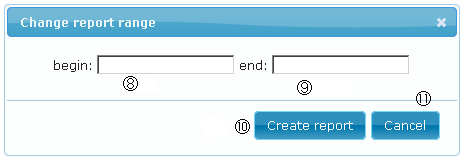
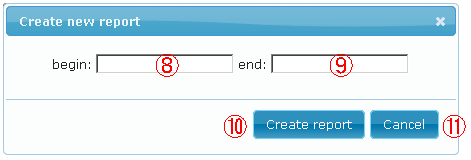
マニュアルコメント3件対応

diff --git a/html/pg_stats_reporter/doc/pg_stats_reporter-ja.html b/html/pg_stats_reporter/doc/pg_stats_reporter-ja.html
@@ -70,6 +70,8 @@
     <li>Superfish : 1.4.8</li>
     <li>Smarty : 3.1.12</li>
   </ul></dd>
+  <dt>解像度</dt>
+  <dd>1024x786(SXGA)以上推奨</dd>
 </dl>
 
 <h3 id="pg_stats_reporter_install">pg_stats_reporterのインストール</h3>
@@ -138,8 +140,8 @@ http://localhost/pg_stats_reporter/pg_stats_reporter.php
 
 <h3>操作方法詳細</h3>
 <p>画面の操作方法を以下に示します。</p>
-<h4>レポート画面 <font color="red">調整が面倒だったので、画面はwidth=&quot;100%&quot;になっています</font></h4>
-<img src="pg_stats_reporter.png" width="100%"/>
+<h4>レポート画面</h4>
+<img src="pg_stats_reporter.png" width="800px;"/>
 <br/>
 <dl>
 <dt>① : Create report range ボタン</dt>
@@ -287,11 +289,14 @@ $ su
 <li>接続先の PostgreSQL の設定 (postgresql.conf, pg_hba.conf)</li>
 </ul></dl>
 
-<h4>Q3. ブラウザに Internet Explorer を使用してレポートを表示したところ、正しく表示されません。</h4>
-<dl>A3. ブラウザに Internet Explorer を使用してレポートを作成した場合、Internet Explorer のバージョンによって正しく表示されない場合があります。ブラウザは Firefox を使用することを推奨します。</dl>
+<h4>Q3. メニュー画面が画面からはみ出て選択できない。</h4>
+<dl>A3. 画面の解像度を現在の設定以上に設定してください。右側のリポジトリ選択メニューが選択できない場合は、別のWebディレクトリにpg_stats_reporterをインストールして、レポジトリDB設定を分散させるなどして対応してください。</dl>
 
-<h4>Q4. 日時を指定してレポートを作成したところ、空のレポートが表示されました。</h4>
-<dl>A4. 指定した条件に該当するスナップショット件数が2件未満の可能性があります。スナップショット件数が2件以上該当するように条件を変更してください。</dl>
+<h4>Q4. ブラウザに Internet Explorer を使用してレポートを表示したところ、正しく表示されません。</h4>
+<dl>A4. ブラウザに Internet Explorer を使用してレポートを作成した場合、Internet Explorer のバージョンによって正しく表示されない場合があります。ブラウザは Firefox を使用することを推奨します。</dl>
+
+<h4>Q5. 日時を指定してレポートを作成したところ、空のレポートが表示されました。</h4>
+<dl>A5. 指定した条件に該当するスナップショット件数が2件未満の可能性があります。スナップショット件数が2件以上該当するように条件を変更してください。</dl>
 
 <h2 id="seealso">関連項目</h2>
 <a href="http://pgstatsinfo.projects.postgresql.org/pg_statsinfo-ja.html">pg_statsinfo</a> 
